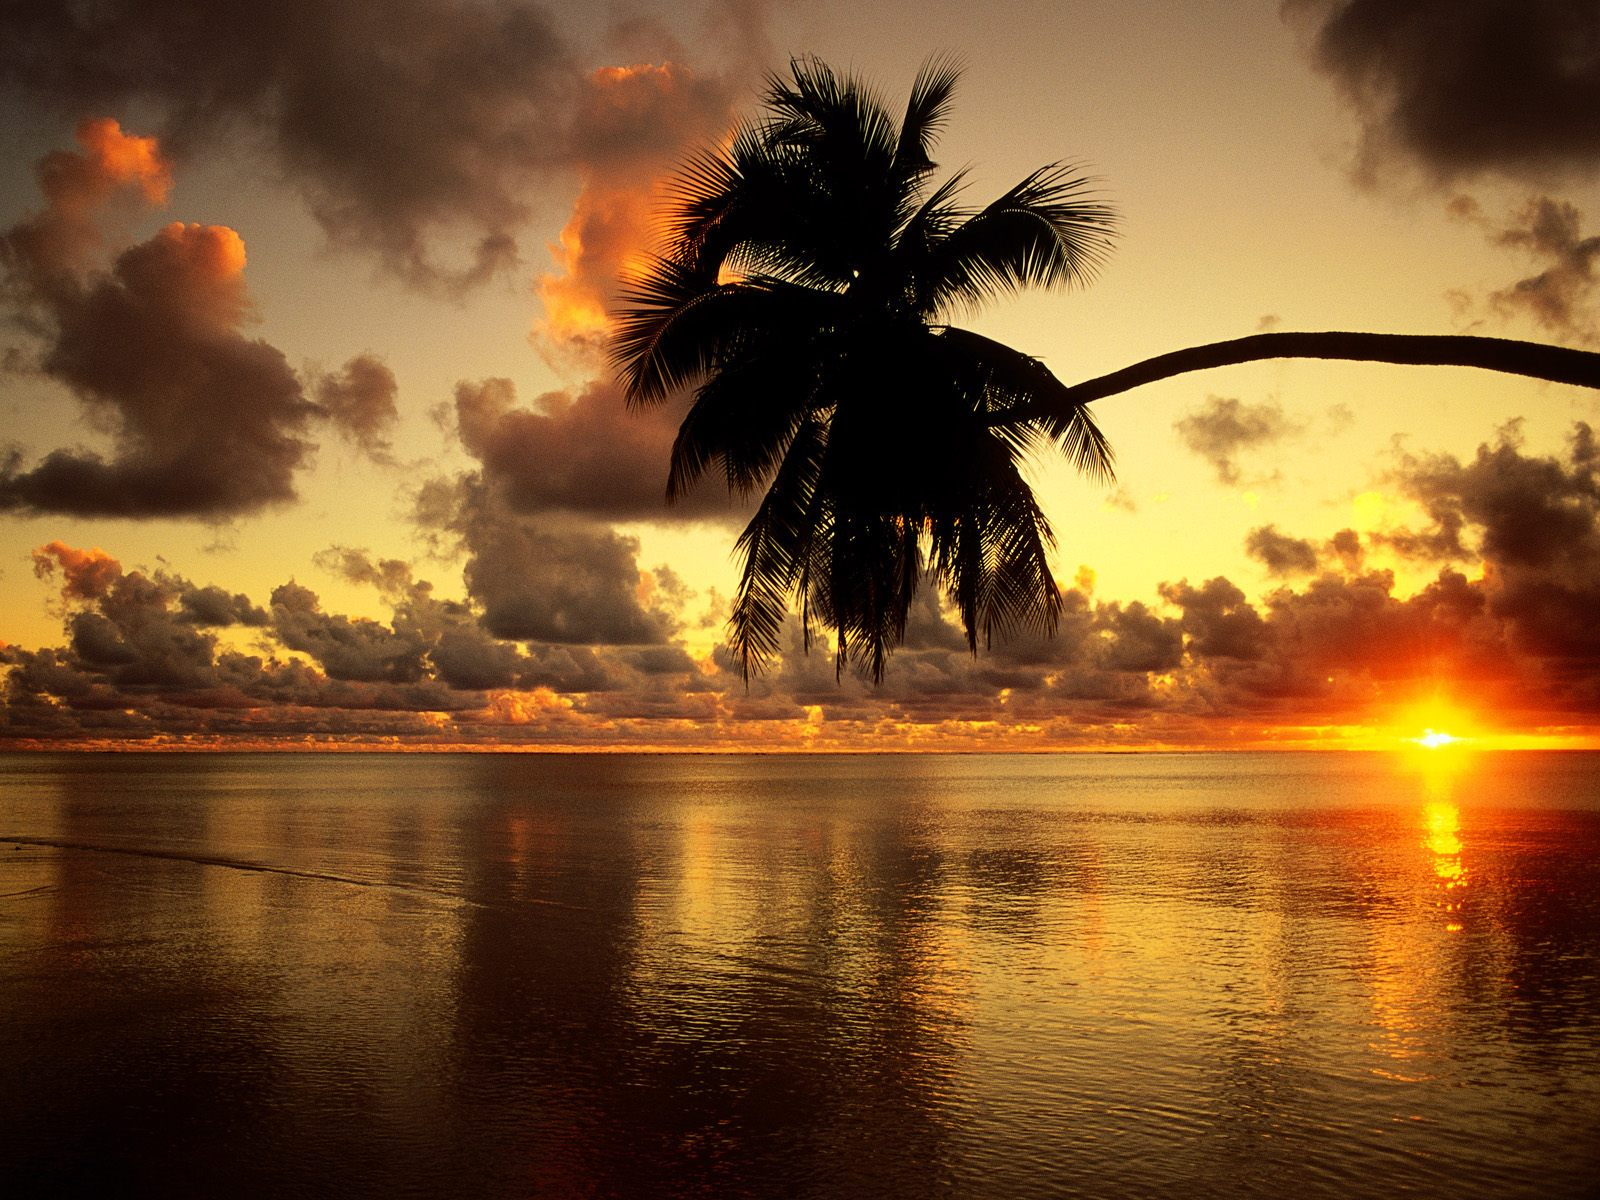
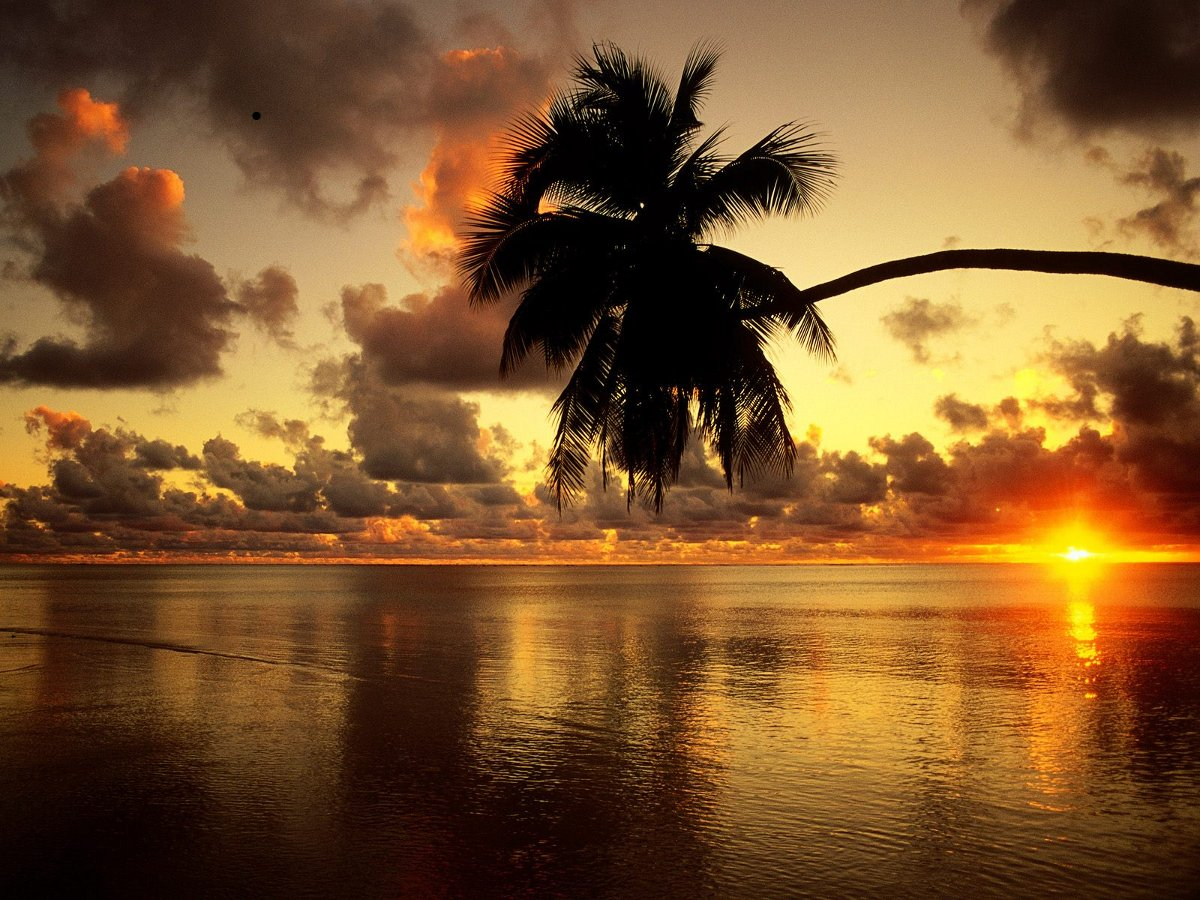
reducing background images size and moving random bg generator function to services py

diff --git a/bytecodegr.py b/bytecodegr.py
@@ -4,8 +4,6 @@ from flask import Flask
 from flask import render_template
 from flask import request
 from flask import jsonify
-from flask import url_for
-import random
 import services
 import configuration
 
@@ -21,7 +19,8 @@ def home():
     Respond to message requests
     """
 
-    return render_template('main.html', background=get_random_background())
+    return render_template('main.html',
+        background=services.get_random_background())
 
 
 @APP.route('/ajax/send_msg', methods=['GET', 'POST'])
@@ -78,17 +77,6 @@ def send_message():
         services.send_message(sender_name, sender_address, message)
     
     return render_template('main.html')
-
-def get_random_background():
-    """
-    Get a random background location
-    """
-
-    random_int = random.randint(1, 4)
-
-    background = url_for('static',
-        filename='img/backgrounds/%d.jpg' % random_int)
-    return background
 
 if __name__ == '__main__':
     APP.run(debug=True)

diff --git a/services.py b/services.py
@@ -1,5 +1,7 @@
-""" Some doc """
+""" Common shared library """
 import smtplib
+from flask import url_for
+import random
 from email.header import Header
 from email.mime.multipart import MIMEMultipart
 from email.mime.text import MIMEText
@@ -48,5 +50,13 @@ def valid_email(email_addr):
         and re.match(emailregex, email_addr) != None\
         else False
 
-if __name__ == "__main__":
-    send_message("Dimitris Balaouras", "dbalaouras@gmail.com", "hello re")
+def get_random_background():
+    """
+    Get a random background location
+    """
+
+    random_int = random.randint(3, 4)
+
+    background = url_for('static',
+        filename='img/backgrounds/%d.jpg' % random_int)
+    return background
